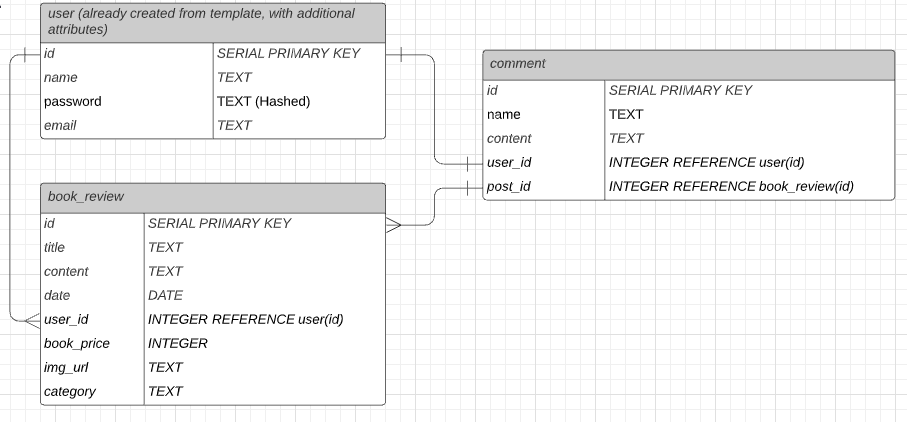
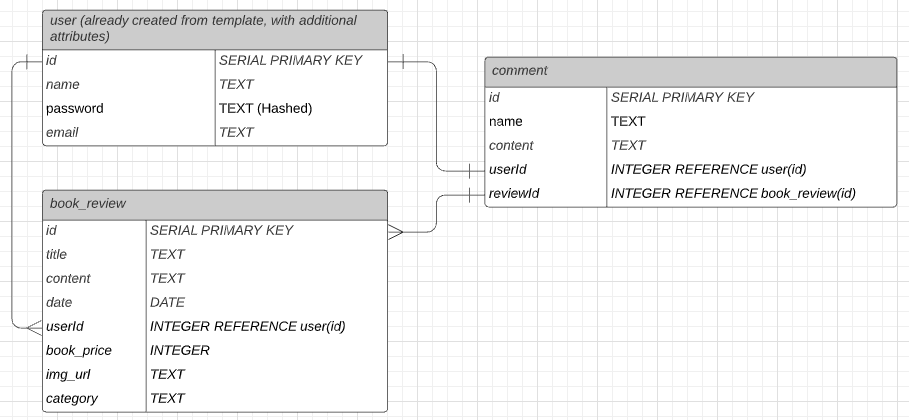
added models, updated ERD screenshot

diff --git a/migrations/20210517163317-create-bookreview.js b/migrations/20210517163317-create-bookreview.js
@@ -1,0 +1,42 @@
+'use strict';
+module.exports = {
+  up: async (queryInterface, Sequelize) => {
+    await queryInterface.createTable('bookreviews', {
+      id: {
+        allowNull: false,
+        autoIncrement: true,
+        primaryKey: true,
+        type: Sequelize.INTEGER
+      },
+      title: {
+        type: Sequelize.TEXT
+      },
+      content: {
+        type: Sequelize.TEXT
+      },
+      userId: {
+        type: Sequelize.INTEGER
+      },
+      book_price: {
+        type: Sequelize.INTEGER
+      },
+      img_url: {
+        type: Sequelize.TEXT
+      },
+      category: {
+        type: Sequelize.TEXT
+      },
+      createdAt: {
+        allowNull: false,
+        type: Sequelize.DATE
+      },
+      updatedAt: {
+        allowNull: false,
+        type: Sequelize.DATE
+      }
+    });
+  },
+  down: async (queryInterface, Sequelize) => {
+    await queryInterface.dropTable('bookreviews');
+  }
+};

diff --git a/migrations/20210517163525-create-comment.js b/migrations/20210517163525-create-comment.js
@@ -1,0 +1,36 @@
+'use strict';
+module.exports = {
+  up: async (queryInterface, Sequelize) => {
+    await queryInterface.createTable('comments', {
+      id: {
+        allowNull: false,
+        autoIncrement: true,
+        primaryKey: true,
+        type: Sequelize.INTEGER
+      },
+      name: {
+        type: Sequelize.TEXT
+      },
+      content: {
+        type: Sequelize.TEXT
+      },
+      userId: {
+        type: Sequelize.INTEGER
+      },
+      reviewId: {
+        type: Sequelize.INTEGER
+      },
+      createdAt: {
+        allowNull: false,
+        type: Sequelize.DATE
+      },
+      updatedAt: {
+        allowNull: false,
+        type: Sequelize.DATE
+      }
+    });
+  },
+  down: async (queryInterface, Sequelize) => {
+    await queryInterface.dropTable('comments');
+  }
+};

diff --git a/models/bookreview.js b/models/bookreview.js
@@ -1,0 +1,28 @@
+'use strict';
+const {
+  Model
+} = require('sequelize');
+module.exports = (sequelize, DataTypes) => {
+  class bookreview extends Model {
+    /**
+     * Helper method for defining associations.
+     * This method is not a part of Sequelize lifecycle.
+     * The `models/index` file will call this method automatically.
+     */
+    static associate(models) {
+      // define association here
+    }
+  };
+  bookreview.init({
+    title: DataTypes.TEXT,
+    content: DataTypes.TEXT,
+    userId: DataTypes.INTEGER,
+    book_price: DataTypes.INTEGER,
+    img_url: DataTypes.TEXT,
+    category: DataTypes.TEXT
+  }, {
+    sequelize,
+    modelName: 'bookreview',
+  });
+  return bookreview;
+};

diff --git a/models/comment.js b/models/comment.js
@@ -1,0 +1,26 @@
+'use strict';
+const {
+  Model
+} = require('sequelize');
+module.exports = (sequelize, DataTypes) => {
+  class comment extends Model {
+    /**
+     * Helper method for defining associations.
+     * This method is not a part of Sequelize lifecycle.
+     * The `models/index` file will call this method automatically.
+     */
+    static associate(models) {
+      // define association here
+    }
+  };
+  comment.init({
+    name: DataTypes.TEXT,
+    content: DataTypes.TEXT,
+    userId: DataTypes.INTEGER,
+    reviewId: DataTypes.INTEGER
+  }, {
+    sequelize,
+    modelName: 'comment',
+  });
+  return comment;
+};
